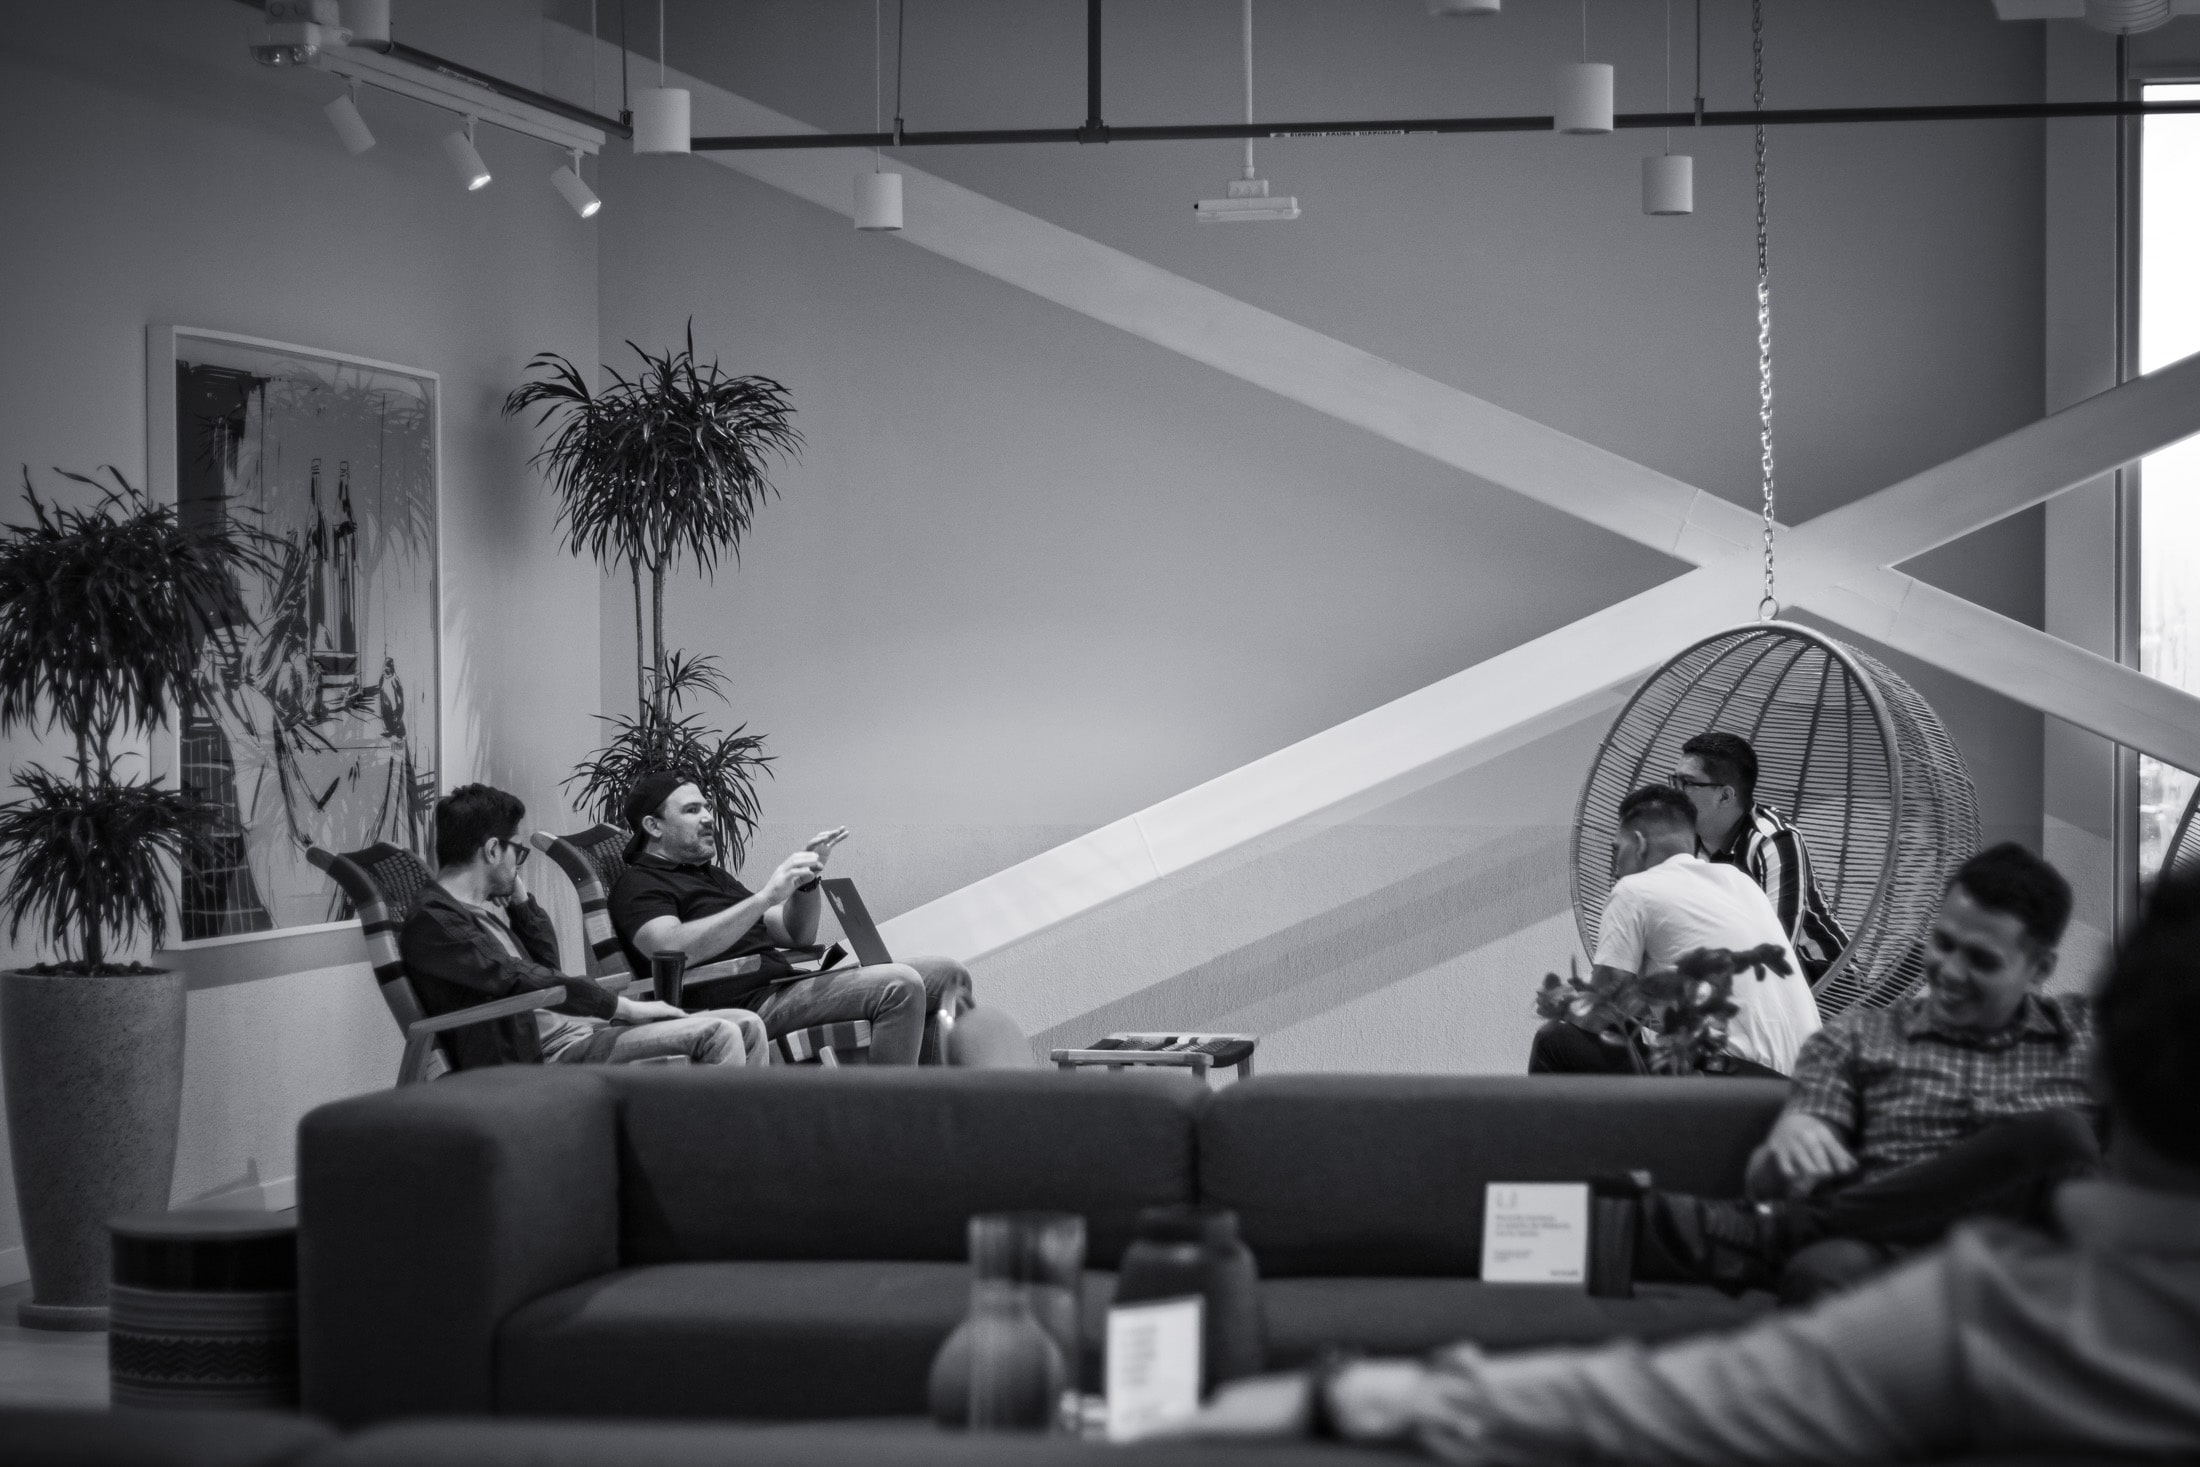
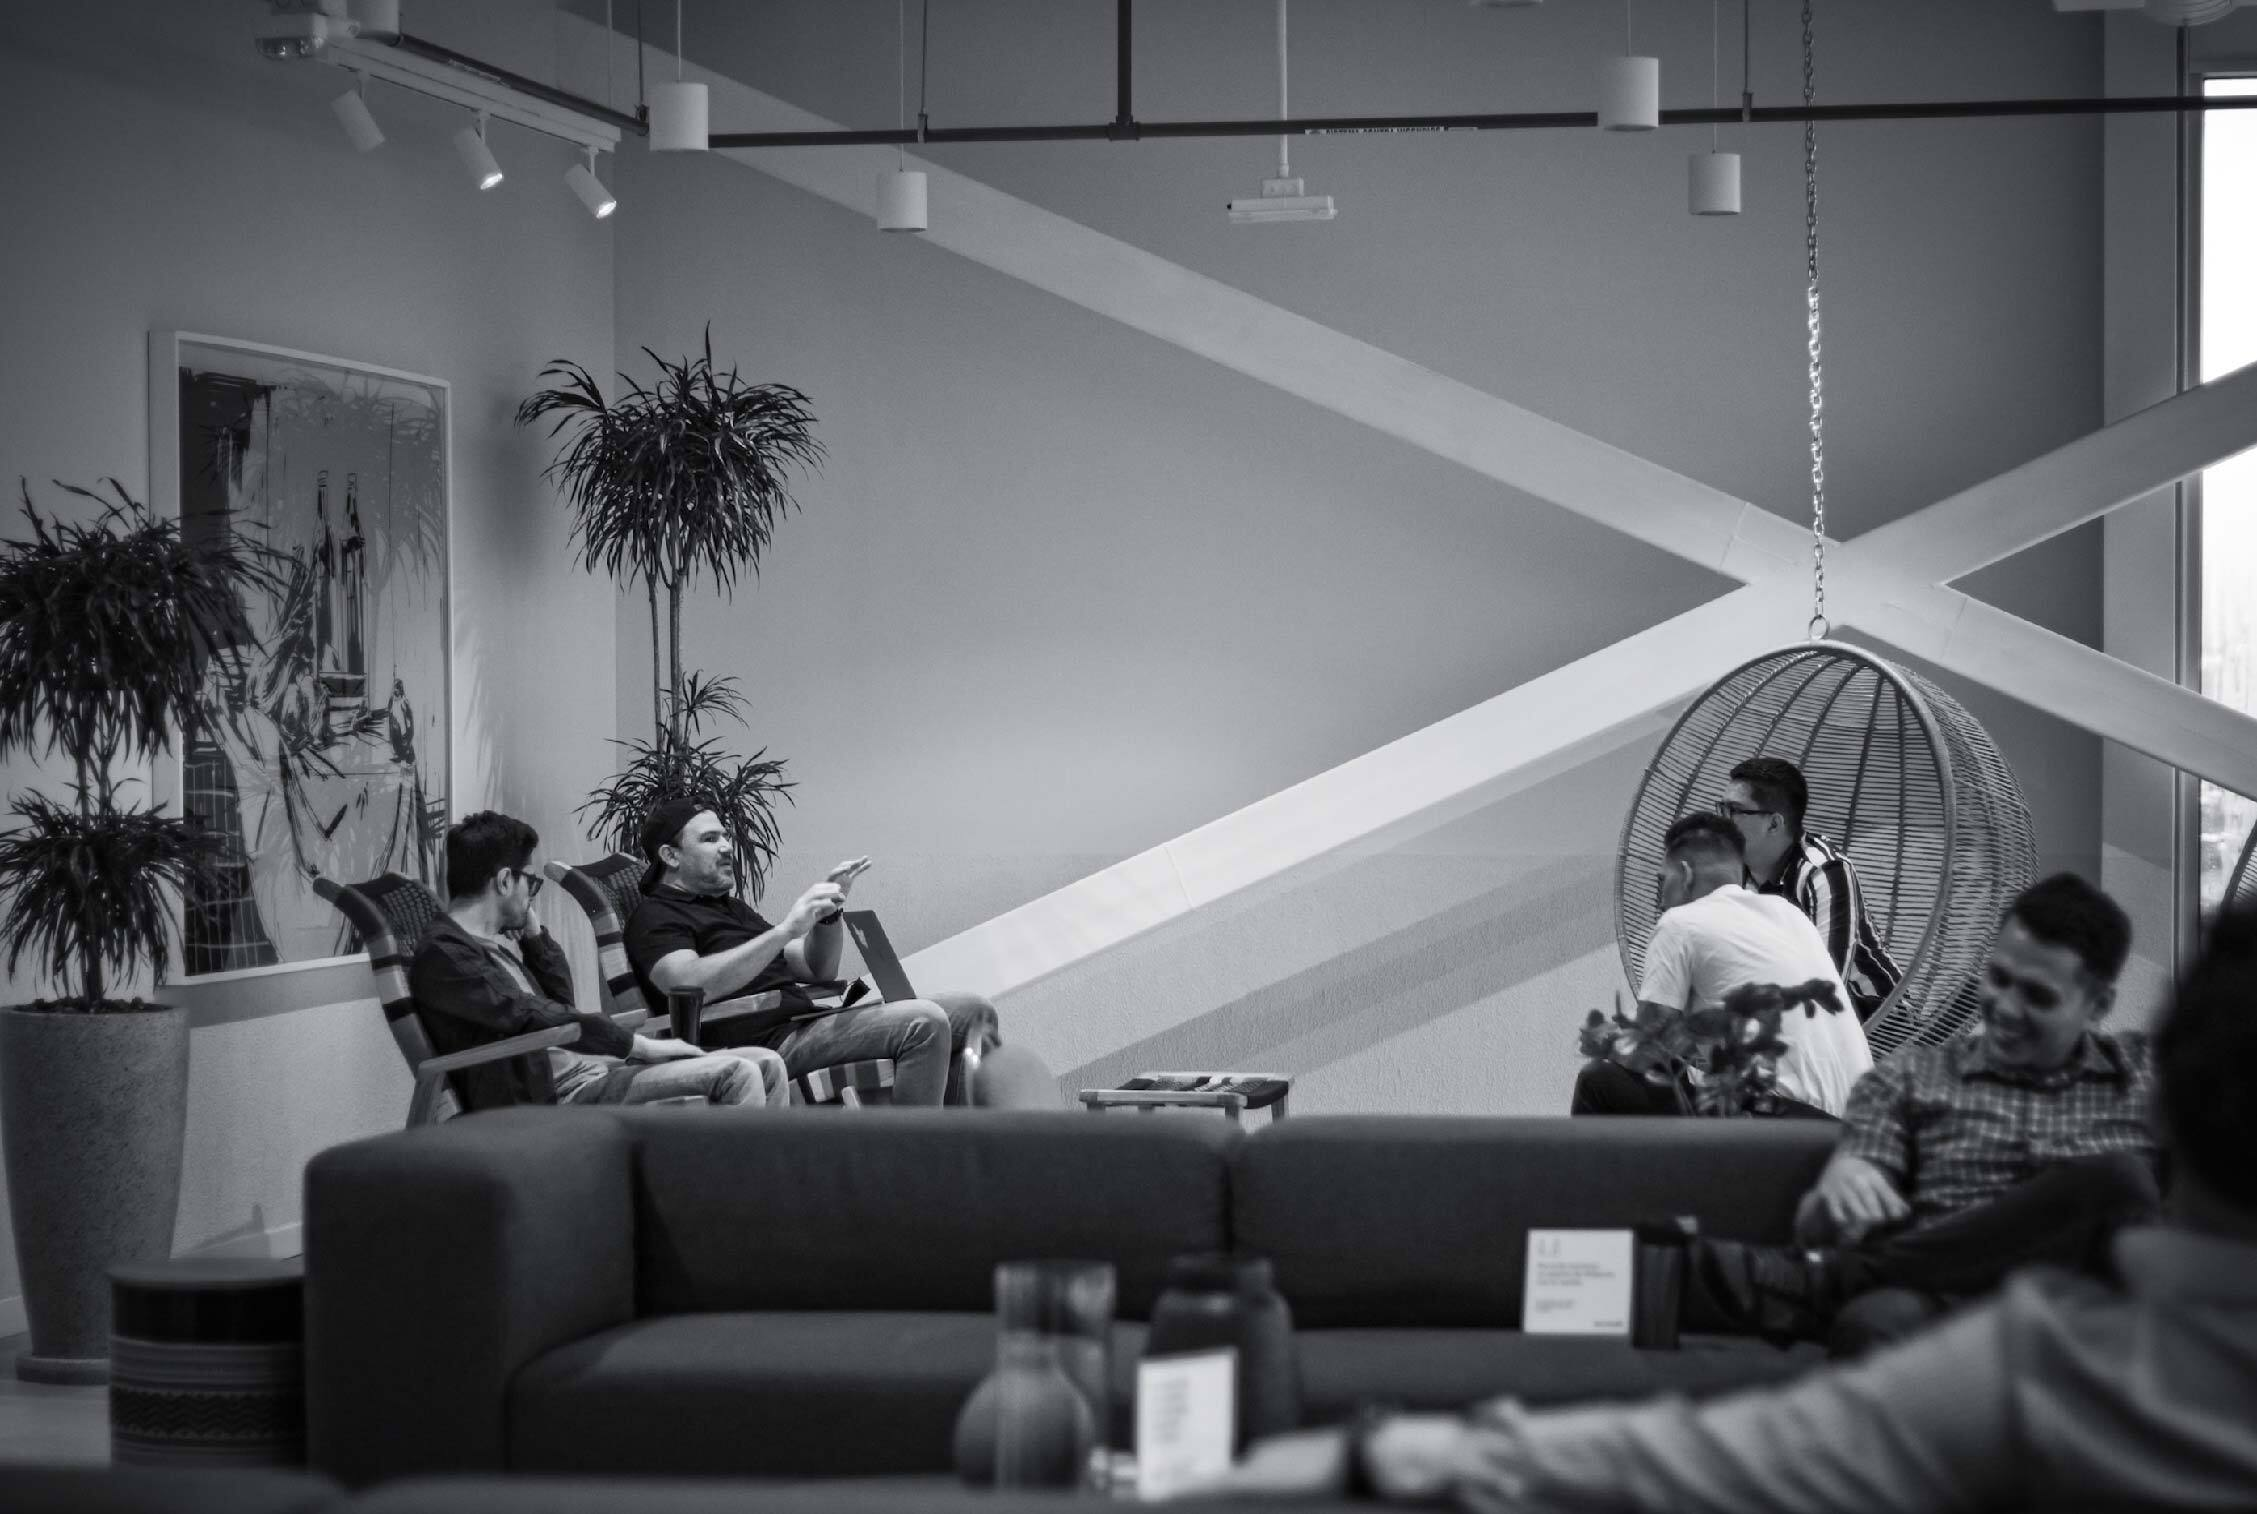
Fix details (#123)
* fix(html lang): change html lang value

* content(robots.txt): Add robots.txt file

* content(images): change size image

* fix(robots.txt): change robots file content

diff --git a/src/theme/LayoutHead/index.js b/src/theme/LayoutHead/index.js
@@ -37,7 +37,7 @@ export default function LayoutHead(props) {
     absolute: true
   });
   const faviconUrl = useBaseUrl(favicon);
-  const htmlLang = "es"
+  const htmlLang = "es-us"
   const location = useLocation()
   return <>
       <Head>
